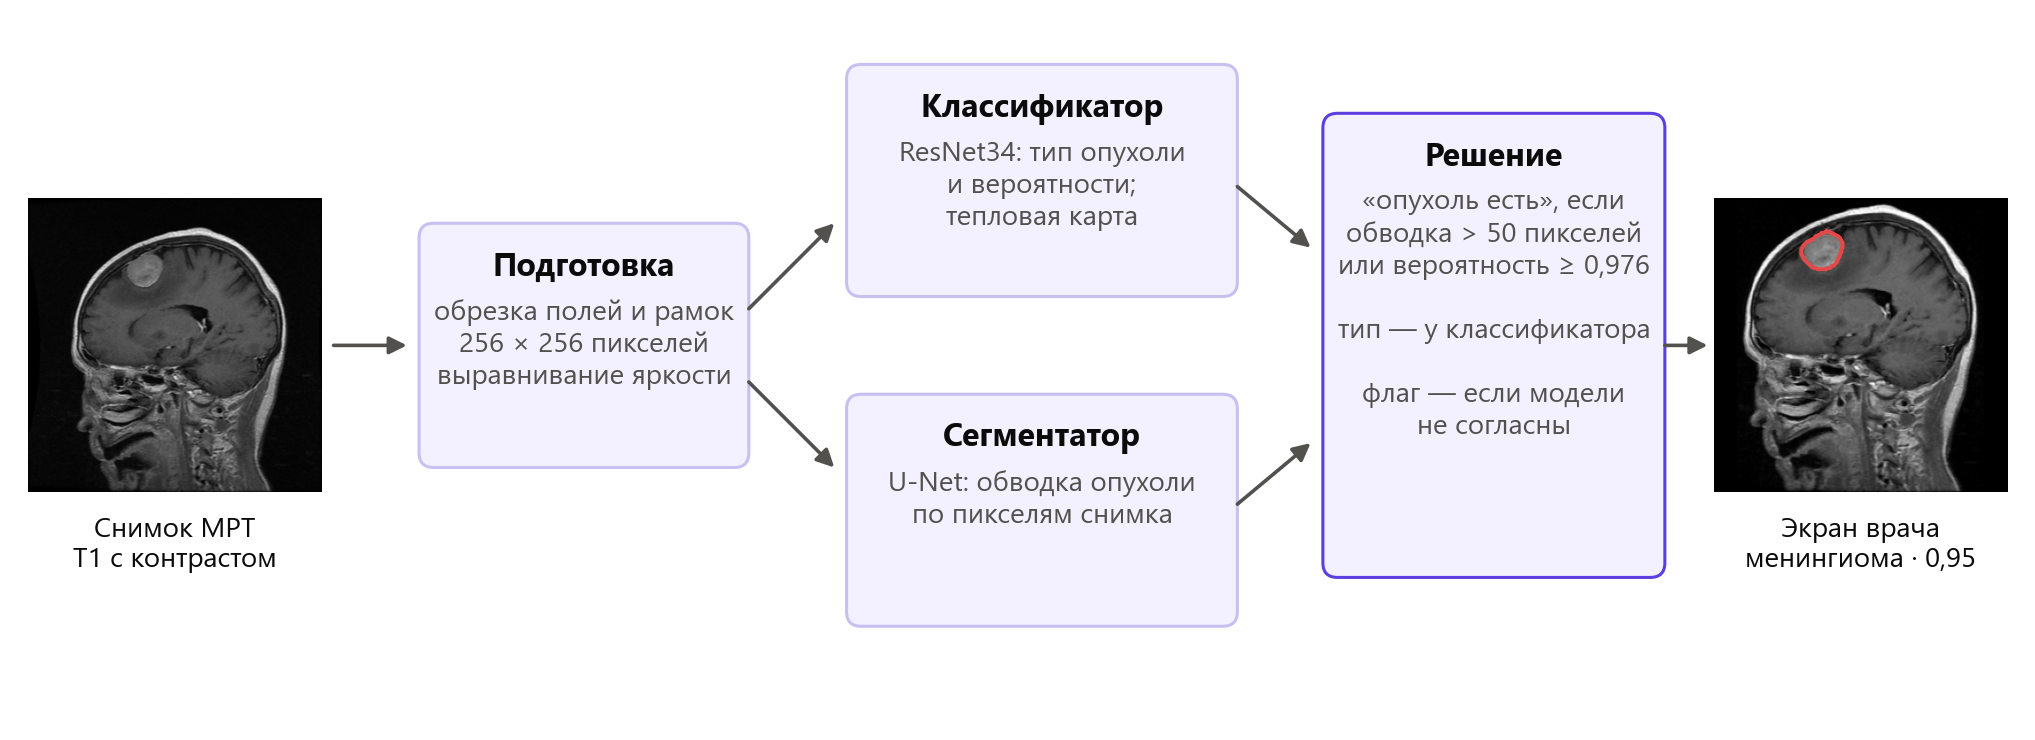
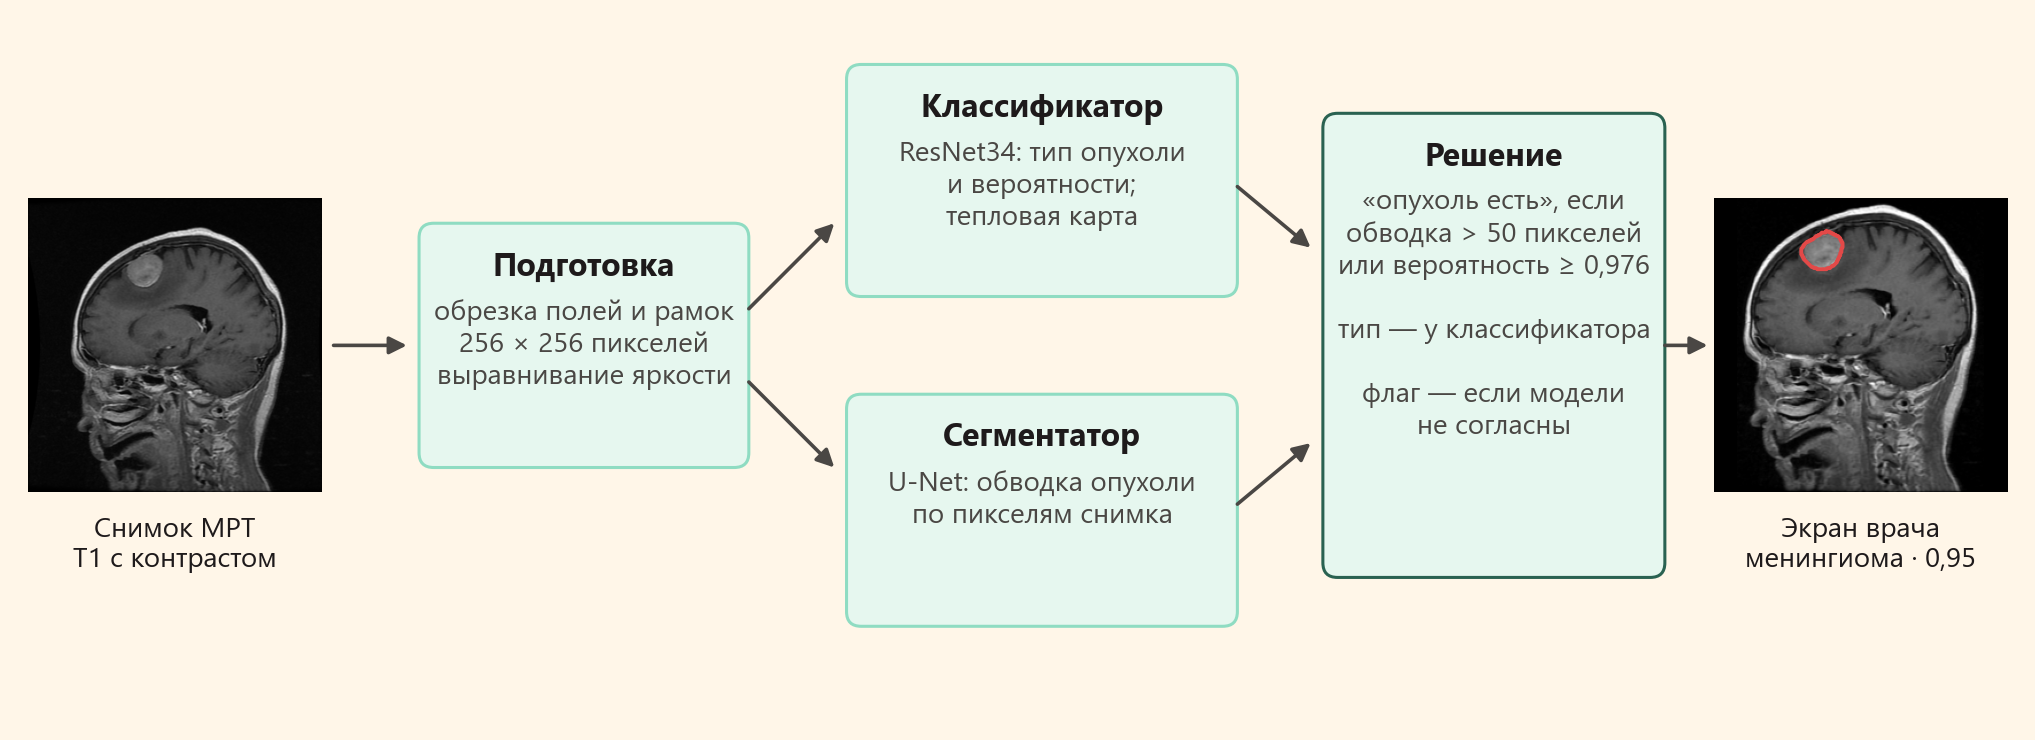
Рисунки к слайдам в палитре презентации

diff --git a/src/make_slide_figures.py b/src/make_slide_figures.py
@@ -157,7 +157,7 @@ def fig02_data(out: Path) -> None:
     n_case_only = len(p) - n_fig
     assert n_fig == 3064 and len(p) == n_fig + n_case_only
 
-    fig, (a1, a2) = plt.subplots(1, 2, figsize=(13, 4.4), gridspec_kw={"width_ratios": [1.35, 1], "wspace": 0.45})
+    fig, (a1, a2) = plt.subplots(1, 2, figsize=(13, 4.6), gridspec_kw={"width_ratios": [1.3, 1], "wspace": 0.42})
     steps = [("Файлы организаторов", n_files, ""),
              ("Без искаженных копий (BR, DA, HF, VF, RO, SP)\nи файлов «- Copy»", n_named_orig, f"−{num(n_files - n_named_orig)}"),
              ("Уникальные снимки:\nубраны повторы одного снимка", n_unique, f"−{num(n_named_orig - n_unique)}"),
@@ -165,13 +165,13 @@ def fig02_data(out: Path) -> None:
     y = np.arange(len(steps))[::-1]
     for yi, (label, v, minus) in zip(y, steps):
         a1.barh(yi, v, color=st.MARK if yi == 0 else st.MARK_LIGHT, height=0.62)
-        a1.text(v + 150, yi, num(v) + (f"   {minus}" if minus else ""), va="center", fontsize=12, color=st.INK)
-    a1.set_yticks(y, [s_[0] for s_ in steps], fontsize=11)
+        a1.text(v + 150, yi, num(v) + (f"   {minus}" if minus else ""), va="center", fontsize=15, color=st.INK)
+    a1.set_yticks(y, [s_[0] for s_ in steps], fontsize=13.5)
     a1.tick_params(axis="y", length=0)
     a1.set_xticks([])
     a1.spines[["left", "bottom"]].set_visible(False)
-    a1.set_xlim(0, n_files * 1.28)
-    a1.set_title("Из 12 064 файлов — 3 574 уникальных рабочих снимка", fontsize=13)
+    a1.set_xlim(0, n_files * 1.36)
+    a1.set_title("Из 12 064 файлов — 3 574 уникальных рабочих снимка", fontsize=16)
 
     parts = ["train", "val", "test"]
     names = {"train": "обучение", "val": "проверка", "test": "тест"}
@@ -181,14 +181,14 @@ def fig02_data(out: Path) -> None:
     a2.barh(yy, fig_n, color=st.MARK, height=0.62, label="срезы Figshare с обводкой")
     a2.barh(yy, case_n, left=fig_n, color=st.MARK_LIGHT, height=0.62, label="снимки кейса без пары в Figshare")
     for yi, f_, c_ in zip(yy, fig_n, case_n):
-        a2.text(f_ + c_ + 40, yi, num(f_ + c_), va="center", fontsize=12, color=st.INK)
-    a2.set_yticks(yy, [names[s_] for s_ in parts], fontsize=12)
+        a2.text(f_ + c_ + 40, yi, num(f_ + c_), va="center", fontsize=15, color=st.INK)
+    a2.set_yticks(yy, [names[s_] for s_ in parts], fontsize=15)
     a2.tick_params(axis="y", length=0)
     a2.set_xticks([])
     a2.spines[["left", "bottom"]].set_visible(False)
     a2.set_xlim(0, max(np.add(fig_n, case_n)) * 1.2)
-    a2.set_title(f"Набор для обучения и оценки: {num(len(p))}", fontsize=13)
-    a2.legend(loc="upper left", bbox_to_anchor=(0.0, -0.02), frameon=False, fontsize=10.5, ncol=1)
+    a2.set_title(f"Набор для обучения и оценки: {num(len(p))}", fontsize=16)
+    a2.legend(loc="upper left", bbox_to_anchor=(0.0, -0.02), frameon=False, fontsize=13, ncol=1)
     fig.savefig(out)
     plt.close(fig)
 
@@ -260,28 +260,28 @@ def fig05_seg_attempts(out: Path) -> None:
         assert len(x) == 3, r
         fm = x.val_false_mask_rate * x.val_n_no_tumor_seg
         rows.append((label, fm.mean(), fm.min(), fm.max(), x.val_dice.mean(), x.val_dice.min(), x.val_dice.max(), r == "run1_seg_neg"))
-    fig, (a1, a2) = plt.subplots(1, 2, figsize=(12, 3.8), sharey=True, gridspec_kw={"wspace": 0.08})
+    fig, (a1, a2) = plt.subplots(1, 2, figsize=(12, 4.0), sharey=True, gridspec_kw={"wspace": 0.08})
     y = np.arange(len(rows))[::-1]
     for yi, r in zip(y, rows):
         label, fm, fl, fh, d, dl, dh, chosen = r
         c = st.MARK if chosen else st.MARK_LIGHT
         a1.barh(yi, fm, color=c, height=0.6)
         a1.plot([fl, fh], [yi, yi], color=st.INK2, lw=1.2)
-        a1.text(max(fh, fm) + 1.2, yi, f"{fm:.1f}".replace(".", ",") + f" из 56  ({fl:.0f}–{fh:.0f})", va="center", fontsize=9.5, color=st.INK)
+        a1.text(max(fh, fm) + 1.2, yi, f"{fm:.1f}".replace(".", ",") + f" из 56  ({fl:.0f}–{fh:.0f})", va="center", fontsize=13, color=st.INK)
         a2.barh(yi, d, color=c, height=0.6)
         a2.plot([dl, dh], [yi, yi], color=st.INK2, lw=1.2)
-        a2.text(dh + 0.02, yi, f"{d:.3f}".replace(".", ","), va="center", fontsize=9.5, color=st.INK)
-    a1.set_yticks(y, [r[0] for r in rows], fontsize=10)
+        a2.text(dh + 0.02, yi, f"{d:.3f}".replace(".", ","), va="center", fontsize=13, color=st.INK)
+    a1.set_yticks(y, [r[0] for r in rows], fontsize=13)
     a1.tick_params(axis="y", length=0)
     a2.tick_params(axis="y", length=0)
-    a1.set_xlim(0, 75)
+    a1.set_xlim(0, 80)
     a2.set_xlim(0, 1.0)
     for a, title in ((a1, "Ложные обводки на снимках без опухоли"), (a2, "Совпадение с эталонной обводкой (Dice)")):
         a.set_xticks([])
         a.spines[["left", "bottom"]].set_visible(False)
-        a.set_title(title, fontsize=11)
-    fig.text(0.125, -0.05, "Проверочная часть: 56 снимков без опухоли, 391 срез с обводкой; среднее трех обучений (seed 42, 43, 44), "
-             "отрезок — от худшего до лучшего. Каждое правило замены записано до запуска.", fontsize=8.5, color=st.MUTED)
+        a.set_title(title, fontsize=14)
+    fig.text(0.125, -0.06, "Проверочная часть: 56 снимков без опухоли, 391 срез с обводкой; среднее трех обучений (seed 42, 43, 44), "
+             "отрезок — от худшего до лучшего. Каждое правило замены записано до запуска.", fontsize=10.5, color=st.MUTED)
     fig.savefig(out)
     plt.close(fig)
 
@@ -321,7 +321,7 @@ def fig06_subgroups(metrics: dict, out: Path) -> None:
 def fig07_confusion(metrics: dict, out: Path) -> None:
     cm = np.array(metrics["cls"]["confusion"])
     share = cm / cm.sum(1, keepdims=True)
-    cmap = LinearSegmentedColormap.from_list("mark", ["#ffffff", "#4b32c8"])
+    cmap = LinearSegmentedColormap.from_list("mark", ["#fff6e8", "#2a6251"])
     fig, ax = plt.subplots(figsize=(6.6, 5.0))
     ax.imshow(share, cmap=cmap, vmin=0, vmax=1)
     for i in range(4):

diff --git a/src/slide_style.py b/src/slide_style.py
@@ -1,8 +1,8 @@
 """Общий стиль рисунков к слайдам: шрифт, цвета, оформление осей.
 
 Цвета типов опухоли — первые три слота проверенной палитры (синий, оранжевый, бирюзовый), одни и те же
-во всех рисунках; «нет опухоли» — нейтральный серый. Данные без типа — оттенки фиолетового, как акцент колоды
-(выделенное — насыщенное, для сравнения — светлое); подписи — оттенки «чернил».
+во всех рисунках; «нет опухоли» — нейтральный серый. Данные без типа — оттенки зеленого, как в оформлении
+презентации (выделенное — темно-зеленое, для сравнения — светло-мятное); фон кремовый, как у слайдов.
 """
 from __future__ import annotations
 
@@ -10,19 +10,19 @@ import matplotlib
 from matplotlib import font_manager
 
 TYPE_COLORS = {"glioma": "#2a78d6", "meningioma": "#eb6834", "pituitary": "#1baf7a", "no_tumor": "#898781"}
-INK = "#0b0b0b"         # основной текст, выделенные данные
-INK2 = "#52514e"        # второстепенный текст
-MUTED = "#898781"       # подписи осей
-LIGHT = "#c3c2b7"       # данные для сравнения, линии осей
-GRID = "#e1e0d9"        # сетка
-SURFACE = "#ffffff"     # фон (слайд белый)
+INK = "#1e1a1b"         # основной текст
+INK2 = "#4a4744"        # второстепенный текст
+MUTED = "#8a847a"       # подписи осей
+LIGHT = "#cfc4b2"       # линии осей
+GRID = "#ebe0cc"        # сетка
+SURFACE = "#fff6e8"     # фон — кремовый, как у слайдов
 SYSTEM_RED = "#e34948"  # обводка системы — как в прототипе и листах врача
 REFERENCE_GREEN = "#00b050"  # эталонная обводка Figshare
-MARK = "#5b3fe0"        # выделенные данные
-MARK_MID = "#9a88f3"    # промежуточное значение
-MARK_LIGHT = "#d3ccf8"  # данные для сравнения
-BOX = "#f3f0ff"         # заливка блоков на схемах
-BOX_EDGE = "#c9c0f2"    # контур блоков на схемах
+MARK = "#2a6251"        # выделенные данные
+MARK_MID = "#2dcd9d"    # промежуточное значение
+MARK_LIGHT = "#a8e8d2"  # данные для сравнения
+BOX = "#e6f7ef"         # заливка блоков на схемах
+BOX_EDGE = "#8fdcc2"    # контур блоков на схемах
 
 
 def apply() -> None:

diff --git a/reports/doctor/error_review/summary.md b/reports/doctor/error_review/summary.md
@@ -1,4 +1,4 @@
-# Разбор ошибок системы врачом (шаги 7.1–7.2): сводка
+# Разбор ошибок системы врачом: сводка
 
 Случаев: 57 с test (листы `page_01…15.png`); ответы врача получены 17 октября 2026 г., расшифровка части ответов подтверждена врачом 19 октября. Ответ системы неверен в 47 случаях, еще в 10 ответ верный, но стоит флаг «требует внимания». Расшифровка ответов и порядок выбора итоговой причины — в описании `src/import_doctor_answers.py`. Метки test по итогам разбора не правились.
 
